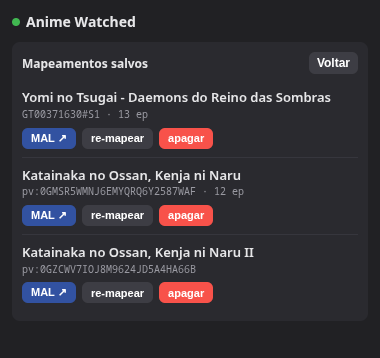
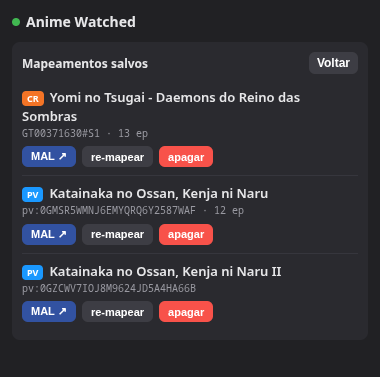
feat: badge de origem (CR/PV) nos mapeamentos + título do README corrigido
Grava um campo `site` explícito ao salvar mapeamentos e renderiza um selo
colorido (CR laranja / PV azul) na lista, com fallback pelo formato da
chave para mapeamentos salvos antes dessa mudança. Também corrige o H1 do
README, que ainda estava com o nome antigo da extensão.

Claude-Session: https://claude.ai/code/session_01D54LdZd4WPeRKdFtAhdR7o

Changed region(s): [[0.0579, 0.1536, 0.8684, 0.8603], [0.0289, 0.0307, 0.3474, 0.0922], [0.8395, 0.1536, 0.9263, 0.1844]]

diff --git a/extension/src/popup.js b/extension/src/popup.js
@@ -207,6 +207,7 @@ async function selectTarget(target) {
         malTitle: target.title,
         malNumEpisodes: target.total || 0,
         crSeriesTitle: currentEpisode.seriesTitle,
+        site: currentEpisode.site,
         savedAt: Date.now(),
       },
     });
@@ -301,6 +302,7 @@ async function writeToMal(num, completed) {
       malTitle: currentTarget.title,
       malNumEpisodes: currentTarget.total || 0,
       crSeriesTitle: currentEpisode.seriesTitle,
+      site: currentEpisode.site,
       savedAt: Date.now(),
     },
   });
@@ -356,6 +358,13 @@ async function onComplete() {
 
 // ---------- GESTÃO DE MAPEAMENTOS ----------
 
+// Mapeamentos salvos antes do suporte a múltiplos sites não têm `site` gravado —
+// nesse caso só existia Crunchyroll, então cai no fallback pelo formato da chave.
+function siteOf(key, val) {
+  return val?.site || (key.startsWith('pv:') ? 'pv' : 'cr');
+}
+const SITE_LABEL = { cr: 'CR', pv: 'PV' };
+
 async function openMappings() {
   const resp = await send({ type: 'GET_ALL_MAPPINGS' });
   const list = $('mappingsList');
@@ -365,11 +374,12 @@ async function openMappings() {
     list.innerHTML = '<div class="muted">Nenhum mapeamento ainda.</div>';
   }
   for (const [key, val] of entries) {
+    const site = siteOf(key, val);
     const row = document.createElement('div');
     row.className = 'maprow';
     row.innerHTML = `
       <div class="info">
-        <div class="v">${escapeHtml(val.malTitle || '?')}</div>
+        <div class="v"><span class="src-badge ${site}">${SITE_LABEL[site]}</span>${escapeHtml(val.malTitle || '?')}</div>
         <div class="k">${escapeHtml(key)}${val.malNumEpisodes ? ' · ' + val.malNumEpisodes + ' ep' : ''}</div>
       </div>`;
     const actions = document.createElement('div');
@@ -400,7 +410,11 @@ async function openMappings() {
 
 // Re-mapear pela tela de gestão: reusa o pick, mas só troca o alvo (não grava episódio).
 function startRemap(mapKey, val) {
-  currentEpisode = { mapKey, seriesTitle: val.crSeriesTitle || val.malTitle || '' };
+  currentEpisode = {
+    mapKey,
+    seriesTitle: val.crSeriesTitle || val.malTitle || '',
+    site: siteOf(mapKey, val),
+  };
   remapOnly = true;
   $('epTitle').textContent = 'Re-mapear';
   $('epMeta').textContent = mapKey;

diff --git a/extension/src/popup.html b/extension/src/popup.html
@@ -11,6 +11,7 @@
         --muted: #9a9aa2;
         --accent: #f47521; /* laranja Crunchyroll */
         --accent2: #2e51a2; /* azul MAL */
+        --pv: #1399ff; /* azul Prime Video */
         --card: #26262b;
         --field: #16161a;
         --ok: #3fb950;
@@ -91,6 +92,12 @@
       .maprow .v { font-weight: 600; }
       .maprow .actions { display: flex; gap: 6px; }
       .maprow .actions > * { padding: 4px 9px; font-size: 11px; }
+      .src-badge {
+        display: inline-block; font-size: 9px; font-weight: 700; padding: 1px 5px;
+        border-radius: 4px; margin-right: 6px; vertical-align: middle; color: #fff;
+      }
+      .src-badge.cr { background: var(--accent); }
+      .src-badge.pv { background: var(--pv); }
       #msg { font-size: 11px; margin-top: 8px; min-height: 14px; }
       #msg.ok { color: var(--ok); }
       #msg.err { color: var(--err); }

diff --git a/extension/src/content-pv.js b/extension/src/content-pv.js
@@ -32,6 +32,7 @@
       // distintos), então não precisa compor com seasonNumber como no CR.
       mapKey: pvDetailId ? `pv:${pvDetailId}` : null,
       displayId: pvDetailId || '', // id curto pra exibir no popup
+      site: 'pv',
       pageUrl: location.href,
     };
   }

diff --git a/extension/src/content.js b/extension/src/content.js
@@ -77,6 +77,7 @@
       ? `${data.crSeriesId}#S${data.seasonNumber}`
       : null;
     data.displayId = data.crSeriesId || ''; // id curto pra exibir no popup
+    data.site = 'cr';
     data.pageUrl = location.href;
     return data;
   }

diff --git a/CHANGELOG.md b/CHANGELOG.md
@@ -18,11 +18,17 @@ e o projeto adota [Versionamento Semântico](https://semver.org/lang/pt-BR/).
 - **Mapeamento por temporada no Prime Video:** chave `pv:<detailId>` — cada temporada já
   tem seu próprio `detail/<ID>` na Amazon, então (diferente do CR) não precisa compor com
   o número da temporada.
+- **Badge de origem (CR/PV) na lista de mapeamentos:** cada mapeamento salvo agora grava um
+  campo `site` (`cr`/`pv`), exibido como selo colorido antes do título. Mapeamentos salvos
+  antes dessa mudança não têm o campo — cai no fallback de inferir pelo formato da chave
+  (só existia Crunchyroll antes do suporte a múltiplos sites, então a ausência do prefixo
+  `pv:` já identifica CR com segurança).
+- Screenshots do popup (`docs/screenshots/`) referenciadas no README.
 
 ### Alterado
 
 - Nome da extensão passa a ser **"Anime Watched"** (mesmo nome do projeto), no lugar de
-  `Crunchyroll/Prime Video → MyAnimeList`.
+  `Crunchyroll/Prime Video → MyAnimeList` — inclui o título (H1) do README.
 - Mensagens de "nenhum episódio detectado" no popup generalizadas por site
   (`NOT_SUPPORTED_SITE`, `NOT_A_WATCH_PAGE`, `NO_PLAYER_OPEN`).
 

diff --git a/README.md b/README.md
@@ -1,4 +1,4 @@
-# Crunchyroll/Prime Video → MyAnimeList
+# Anime Watched
 
 Extensão de Chrome (Manifest V3) que grava, com um clique, o episódio que você acabou de
 ver no **Crunchyroll** ou no **Prime Video** na sua lista do **MyAnimeList (MAL)**.